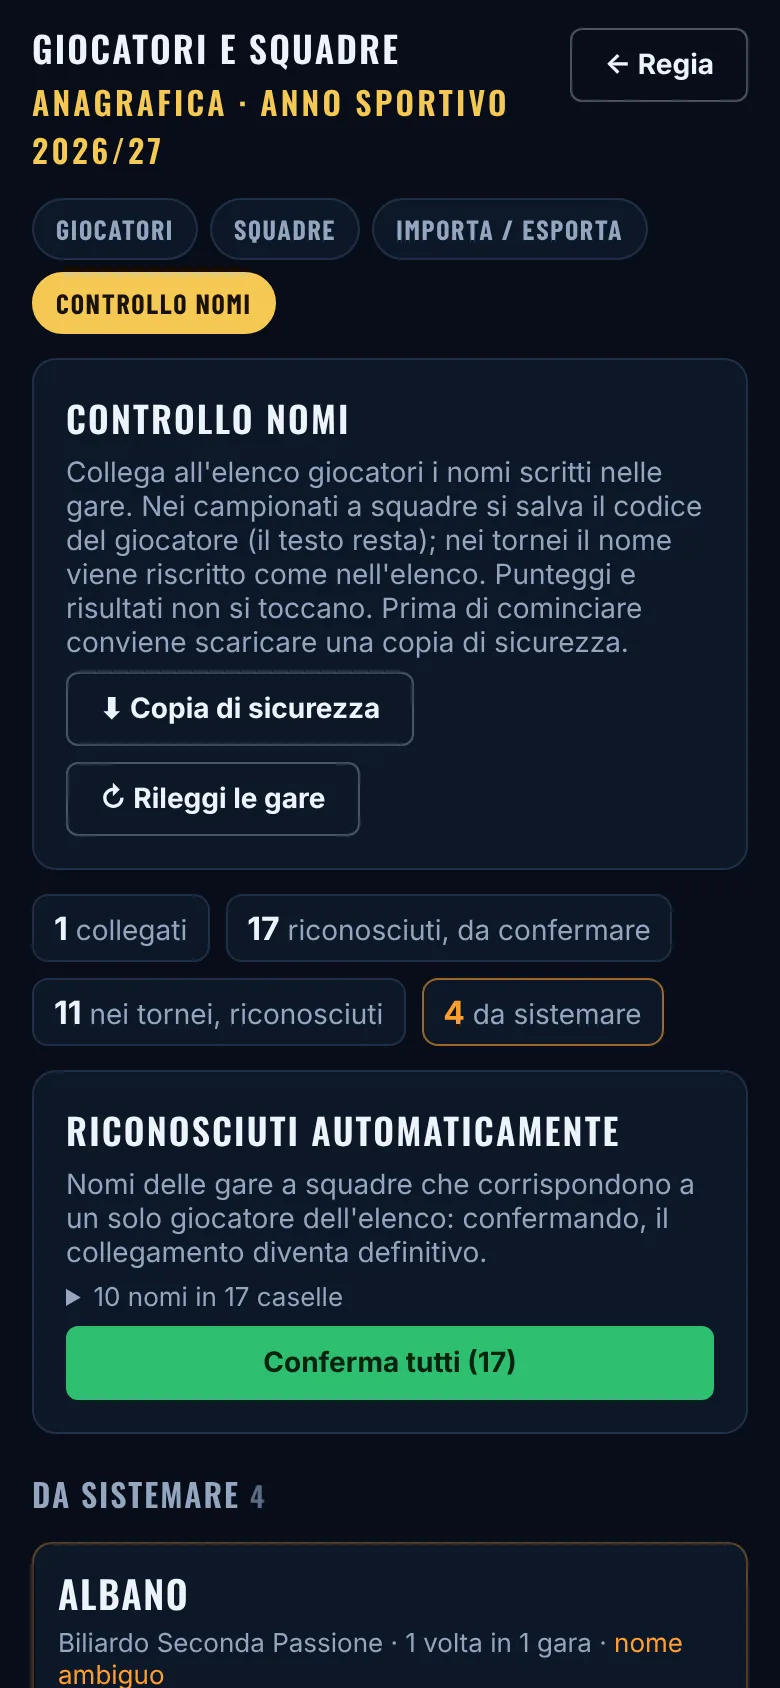
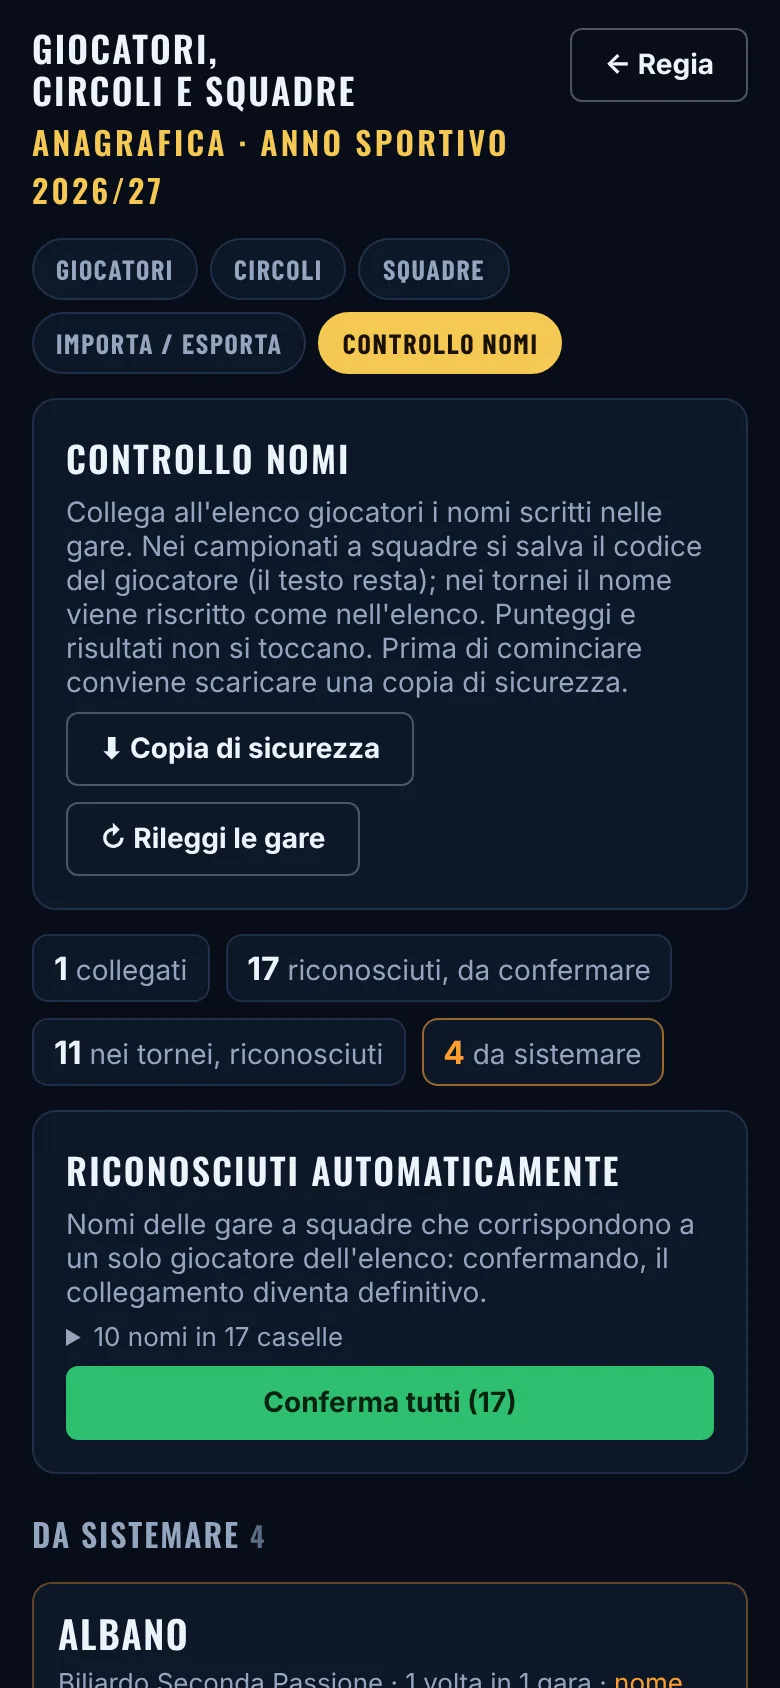
Manuale: immagini dell'anagrafica con circoli e squadre
Claude-Session: https://claude.ai/code/session_013Bh35DYrW4TbfmehjuZefJ

Changed region(s): [[0.0308, 0.0, 0.9231, 1.0], [0.5231, 0.955, 0.8923, 1.0]]

diff --git a/manuale.html b/manuale.html
@@ -346,12 +346,13 @@ assente
   <li><b>Circolo, categoria e squadre per anno sportivo:</b> sotto il circolo compaiono le sue squadre da spuntare. <span class="btn">+ Aggiungi anno</span> copia l'ultima riga, così basta cambiare ciò che è diverso.</li>
   <li><b>Circolo che non c'è ancora:</b> nella tendina Circolo scegli <b>+ Nuovo circolo…</b> e scrivi nome e città: il circolo viene creato insieme al giocatore, quando premi <span class="btn g">Salva</span> (se esiste già un circolo con quel nome, si usa quello). Il logo si aggiunge poi dalla scheda Circoli.</li>
 </ul>
-<div class="shs"><figure class="sh tel"><img src="img/manuale/anagrafica.webp" alt="Elenco dei giocatori per anno sportivo e squadra" loading="lazy" width="390" height="844"><figcaption>Elenco dei giocatori per anno sportivo e squadra</figcaption></figure><figure class="sh tel"><img src="img/manuale/anagrafica-scheda.webp" alt="Scheda di un giocatore: foto, squadra e categoria per anno sportivo" loading="lazy" width="390" height="844"><figcaption>Scheda di un giocatore: foto, squadra e categoria per anno sportivo</figcaption></figure></div>
+<div class="shs"><figure class="sh tel"><img src="img/manuale/anagrafica.webp" alt="Elenco dei giocatori per anno sportivo e circolo, con le squadre in giallo" loading="lazy" width="390" height="844"><figcaption>Elenco dei giocatori per anno sportivo e circolo, con le squadre in giallo</figcaption></figure><figure class="sh tel"><img src="img/manuale/anagrafica-scheda.webp" alt="Scheda di un giocatore: foto, circolo, categoria e squadre per anno sportivo" loading="lazy" width="390" height="844"><figcaption>Scheda di un giocatore: foto, circolo, categoria e squadre per anno sportivo</figcaption></figure></div>
 <p>Ogni giocatore ha un <b>codice</b> interno, creato alla prima registrazione e mai più modificato. Le gare sono collegate al codice: se cambi nome, grafia o soprannome, tutte le gare e le statistiche mostrano il nome aggiornato.</p>
 <h3>Circoli</h3>
 <p>Nome, città e logo. Il logo vale anche per le squadre del circolo che non ne hanno uno proprio. Un circolo con giocatori o squadre non si può eliminare.</p>
 <h3>Squadre</h3>
 <p>Nome, <b>campionato</b> (Base o Eccellenza), <b>circolo che rappresenta</b>, logo facoltativo e i <b>giocatori della squadra</b> nell'anno sportivo scelto in alto (si spuntano tra quelli del circolo). Il campionato serve a proporre la squadra giusta in Nuova gara; due squadre possono avere lo stesso nome solo se giocano campionati diversi. Eliminando una squadra si tolgono anche le iscrizioni dei giocatori; le gare già giocate non cambiano.</p>
+<div class="shs"><figure class="sh tel"><img src="img/manuale/anagrafica-circoli.webp" alt="Scheda Circoli: città, giocatori e squadre di ogni circolo" loading="lazy" width="390" height="844"><figcaption>Circoli: città, giocatori e squadre di ogni circolo</figcaption></figure><figure class="sh tel"><img src="img/manuale/anagrafica-squadre.webp" alt="Scheda Squadre: circolo, campionato e numero di giocatori" loading="lazy" width="390" height="844"><figcaption>Squadre: circolo, campionato e numero di giocatori</figcaption></figure><figure class="sh tel"><img src="img/manuale/anagrafica-squadra.webp" alt="Scheda di una squadra con i giocatori da spuntare" loading="lazy" width="390" height="844"><figcaption>Scheda di una squadra: campionato, circolo e giocatori da spuntare</figcaption></figure></div>
 <h3>Il passaggio a circoli e squadre (8 novembre 2026)</h3>
 <p>La prima volta che si apre l'anagrafica dopo l'aggiornamento compare il pulsante <span class="btn g">Separa circoli e squadre</span>: ogni squadra di prima diventa anche un circolo con lo stesso nome, città e logo, e la squadra di ogni giocatore diventa il suo circolo. Le gare non cambiano. Dopo si sistemano a mano i casi come Minerva 2000 (squadra da rinominare o da aggiungere al circolo giusto), si indica il campionato di ogni squadra e si aggiunge la seconda squadra del nostro circolo.</p>
 <h3>Importa / esporta</h3>
